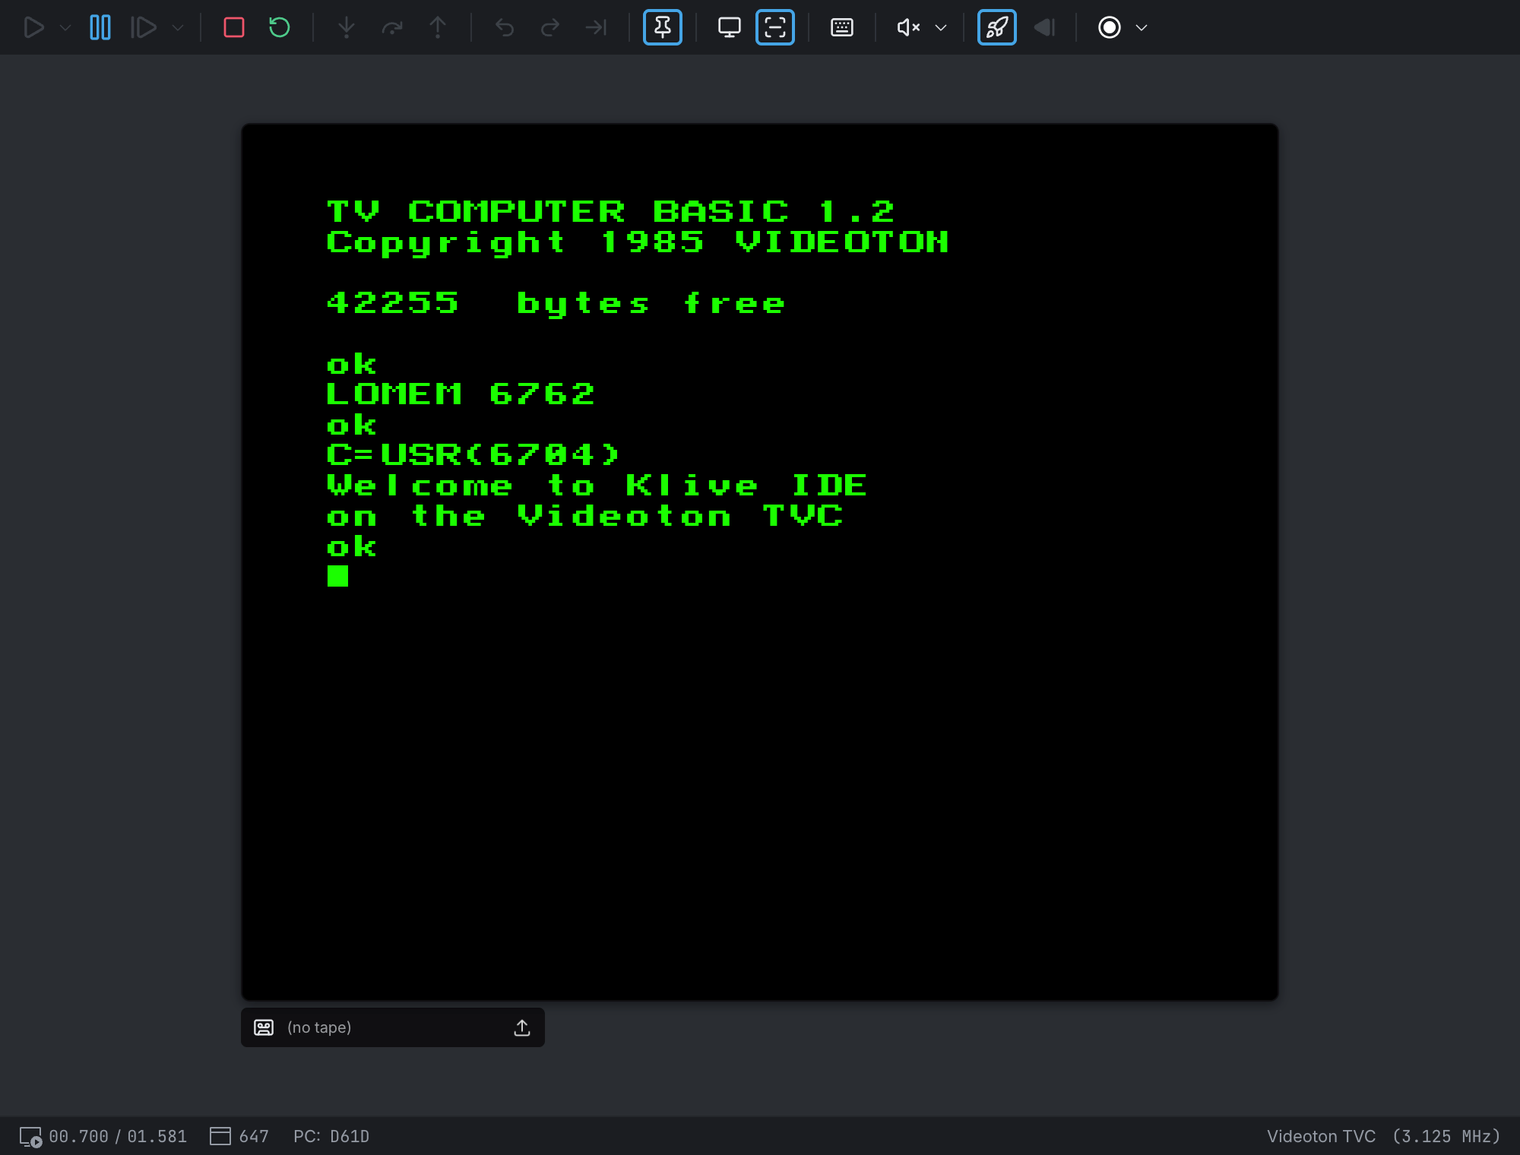
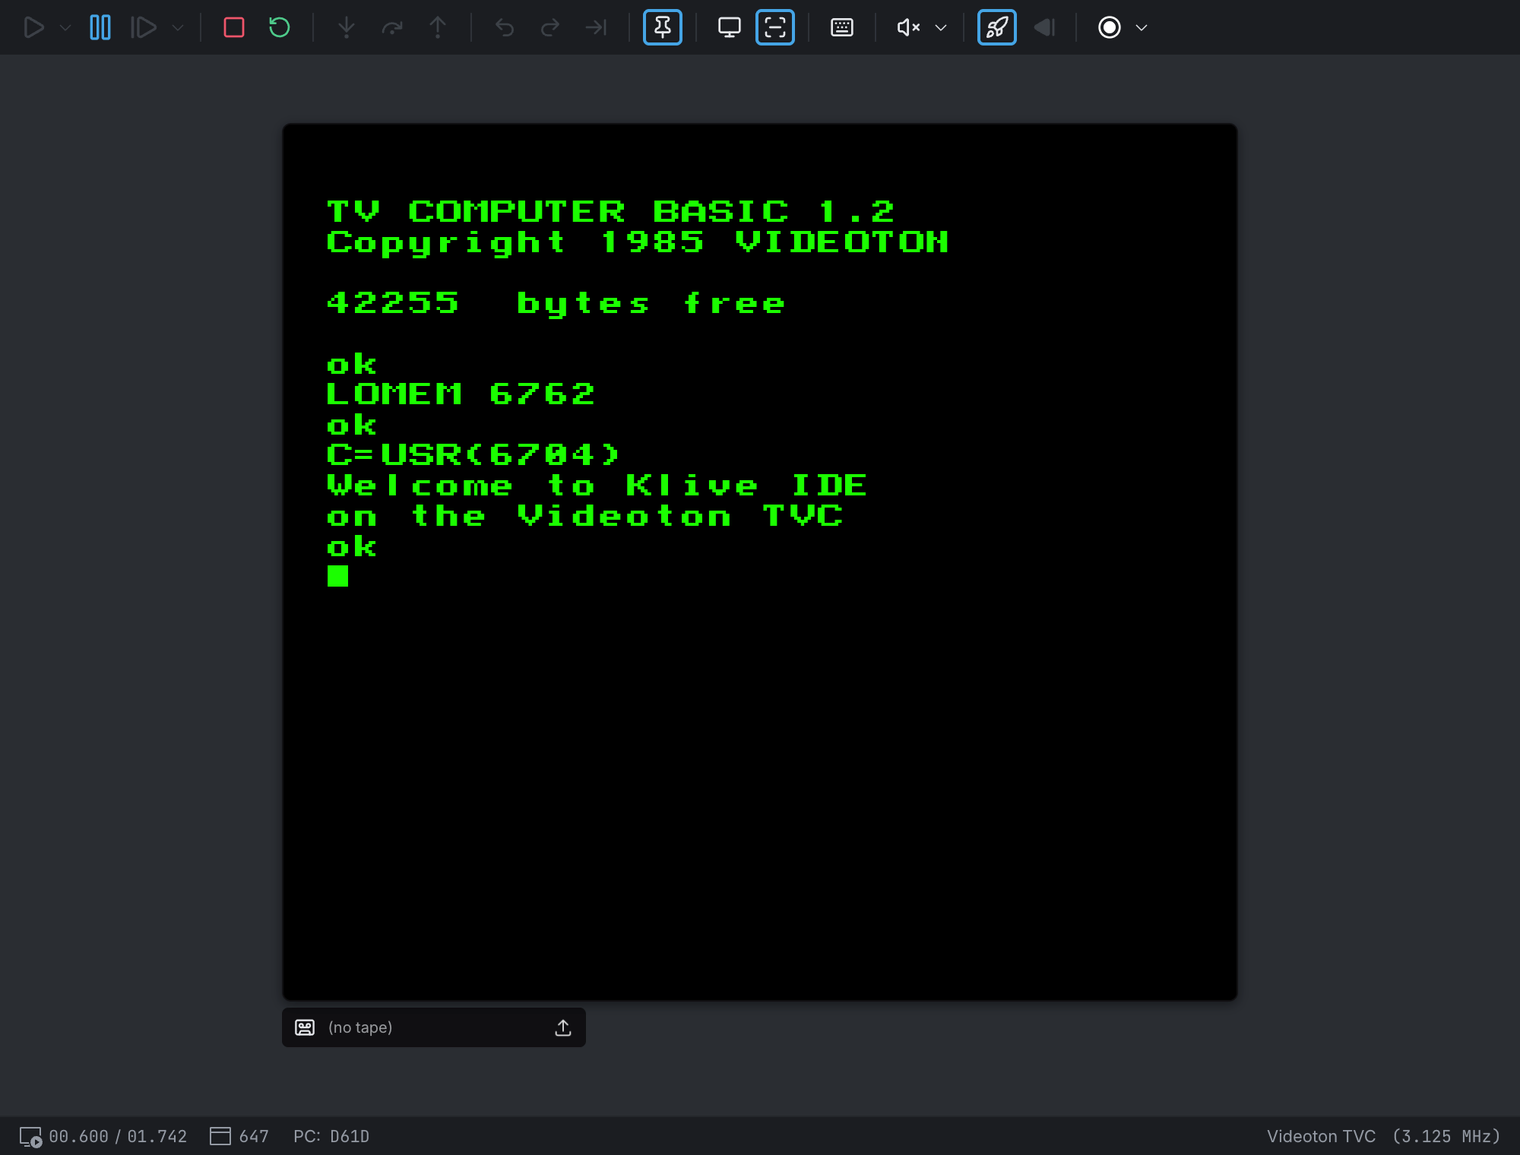
TVC: crop the TV window to 560 dots so no blanked dots show (#1546)
The 608 x 288 window started 18 characters after the line sync, 2.5
characters before the 14.4 us horizontal blank ends, so a black stripe
ran down the left edge of every picture. The window now starts at
character 21 and is 70 characters wide: the paper stays centred with
3 characters of border each side, as a TV with normal overscan shows it.

The beam overlay map, the tests' geometry and the pinned picture hashes
(checked by eye) follow; the guide's Run screenshot is regenerated.
No changeset: the TVC is not released yet, and its feature changeset
already covers it.

diff --git a/test/tvc-hw/boot.test.ts b/test/tvc-hw/boot.test.ts
@@ -2,6 +2,7 @@ import { createHash } from "node:crypto";
 import { describe, expect, it } from "vitest";
 
 import { createTvcSession, type TvcTestSession } from "../harness/tvc";
+import { writeShotIfAsked } from "./bare";
 
 /*
  * Booting BASIC 1.2 on the TVC 64K (`.plans/VIDEOTON_TVC_PLAN.md` Phase 2): the ROM tests the RAM,
@@ -10,10 +11,10 @@ import { createTvcSession, type TvcTestSession } from "../harness/tvc";
  * VIDEOTON", "42255 bytes free", "ok" and the block cursor, green on black).
  */
 
-const BOOT_PICTURE_SHA1 = "36a89c43e28b44a5ba749559900aba3246f539f7";
+const BOOT_PICTURE_SHA1 = "3cc0f0be284464ae046ce7154375f14ff6cabc24";
 
 /** The colour of a picture pixel (0xAABBGGRR) */
-const pixelAt = (s: TvcTestSession, x: number, y: number) => s.screenPixels()[y * 608 + x];
+const pixelAt = (s: TvcTestSession, x: number, y: number) => s.screenPixels()[y * 560 + x];
 
 describe("TVC 64K boot", () => {
   it("programs the CRTC with the ROM's values (TVC_VIDEO_GENERATION.md Part 3)", async () => {
@@ -27,11 +28,12 @@ describe("TVC 64K boot", () => {
   it("boots to BASIC's banner and ok, the picture checked by eye", async () => {
     const s = await createTvcSession();
     s.bootToBasic();
+    await writeShotIfAsked(s, "boot");
     const pixels = s.screenPixels();
     const hash = createHash("sha1").update(Buffer.from(pixels.buffer, pixels.byteOffset, pixels.byteLength)).digest("hex");
     // --- Black paper and border, and the banner in bright green (BASIC's default four-colour palette)
     expect(pixelAt(s, 300, 280).toString(16)).toBe("ff000000");
-    const bannerRow = Array.from(pixels.subarray(56 * 608, 57 * 608));
+    const bannerRow = Array.from(pixels.subarray(56 * 560, 57 * 560));
     expect(bannerRow.some((p) => p === 0xff00ff00)).toBe(true);
     expect(hash).toBe(BOOT_PICTURE_SHA1);
   });

diff --git a/test/tvc-hw/bare.ts b/test/tvc-hw/bare.ts
@@ -4,16 +4,16 @@ import type { TvcTestSession } from "../harness/tvc";
  * A TVC without its ROM running: page 0 shows U0 and the CPU sits in `DI; HALT` there, so nothing but
  * the test touches the video. The CRTC gets the BASIC ROM's values (TVC_VIDEO_GENERATION.md Part 3).
  *
- * With those values the TV picture (608 x 288) shows paper line L, byte C at x = 48 + 8C, y = 24 + L:
+ * With those values the TV picture (560 x 288) shows paper line L, byte C at x = 24 + 8C, y = 24 + L:
  * the line sync starts 2 characters after HS (character 77), the window 18 characters after the
  * line sync, and the paper one character after DE (Part 8).
  */
 
 export const ROM_CRTC = [99, 64, 75, 0x32, 77, 2, 60, 66, 0, 3, 3, 3, 0, 0, 0x0e, 0xff];
 
-export const PAPER_LEFT = 48;
+export const PAPER_LEFT = 24;
 export const PAPER_TOP = 24;
-export const SCREEN_WIDTH = 608;
+export const SCREEN_WIDTH = 560;
 
 /** Palette port values (I/G/R/B in bits 6/4/2/0) */
 export const PAL = { black: 0x00, white: 0x55, red: 0x04, green: 0x10, blue: 0x01, brightGreen: 0x50 };
@@ -91,7 +91,7 @@ export async function writeShotIfAsked(s: TvcTestSession, name: string): Promise
   if (!dir) return;
   const { default: sharp } = await import("sharp");
   const pixels = s.screenPixels();
-  await sharp(Buffer.from(pixels.buffer, pixels.byteOffset, pixels.byteLength), { raw: { width: 608, height: 288, channels: 4 } })
+  await sharp(Buffer.from(pixels.buffer, pixels.byteOffset, pixels.byteLength), { raw: { width: SCREEN_WIDTH, height: 288, channels: 4 } })
     .resize(1216, 1152, { kernel: "nearest", fit: "fill" })
     .png()
     .toFile(`${dir}/${name}.png`);

diff --git a/test/tvc-hw/video.test.ts b/test/tvc-hw/video.test.ts
@@ -72,7 +72,7 @@ describe("TVC video: from byte to pixels (Part 6)", () => {
 });
 
 describe("TVC video: paper, border and blanking (Part 8)", () => {
-  it("places the paper 48 dots and 24 lines into the picture, the border around it", async () => {
+  it("places the paper 24 dots and 24 lines into the picture, the border around it", async () => {
     const s = await createTvcSession();
     bareMachine(s);
     s.wasm.tvcWritePort(0x06, 0x00);
@@ -92,14 +92,13 @@ describe("TVC video: paper, border and blanking (Part 8)", () => {
     expect(pixel(s, 300, PAPER_TOP + 240)).toBe(red);
   });
 
-  it("the 14.4 us horizontal blank from HS ends 20 dots into the picture: black there, border after", async () => {
+  it("the 14.4 us horizontal blank from HS ends just before the picture: its first dot shows border", async () => {
     const s = await createTvcSession();
     bareMachine(s);
     s.wasm.tvcWritePort(0x00, 0x08);
     s.runFrames(2);
-    // --- HS rises at character 75; 180 dots later is character 97, dot 4; the window starts at 95
-    expect(pixel(s, 19, PAPER_TOP)).toBe(RGB.black);
-    expect(pixel(s, 20, PAPER_TOP)).toBe(RGB.darkRed);
+    // --- HS rises at character 75; 180 dots later is character 97, dot 4; the window starts at 98
+    for (let y = 0; y < 288; y += 47) expect(pixel(s, 0, y)).toBe(RGB.darkRed);
   });
 
   it("vertical blank: set at VS (line 264), released when MA9 first goes high - later for start 0000h", async () => {

diff --git a/src/emu/machines/tvc/TvcWasmV2Machine.ts b/src/emu/machines/tvc/TvcWasmV2Machine.ts
@@ -80,8 +80,8 @@ const LOAD_SCRIPT_TIMEOUT_FRAMES = 6000;
 
 /**
  * The raster as the beam overlay sees it (`getBeamPosition`), for the BASIC ROM's CRTC values (100
- * characters of 2 T, 314 lines). Buffer pixel (0, 0) is drawn at character 95 of line 289, 25 lines
- * and 190 T before the frame starts (`tvc-video.c`: the window starts 18 characters after the line
+ * characters of 2 T, 314 lines). Buffer pixel (0, 0) is drawn at character 98 of line 289, 25 lines
+ * and 196 T before the frame starts (`tvc-video.c`: the window starts 21 characters after the line
  * sync, 26 line syncs after the frame sync); a dot is a quarter T-state. A program that reprograms
  * the CRTC moves the picture, and this map then no longer matches it.
  */
@@ -89,11 +89,11 @@ const TVC_BEAM_TIMING: BeamTiming = {
   unit: "T",
   tactsPerLine: 200,
   linesPerFrame: 314,
-  firstVisibleTact: -25 * 200 + 95 * 2,
+  firstVisibleTact: -25 * 200 + 98 * 2,
   tactsPerBufferPixel: 0.25,
-  bufferWidth: 608,
+  bufferWidth: 560,
   bufferHeight: 288,
-  paperLeft: 48,
+  paperLeft: 24,
   paperTop: 24,
   paperWidth: 512,
   paperHeight: 240

diff --git a/test/tvc-hw/project-templates.test.ts b/test/tvc-hw/project-templates.test.ts
@@ -35,11 +35,11 @@ async function build(source = SOURCE): Promise<CodeToInject> {
 /** The picture rows that are not paper: the text the program and BASIC printed */
 function inkRows(s: TvcTestSession): number {
   const pixels = s.screenPixels();
-  const paper = pixels[60 * 608 + 300];
+  const paper = pixels[60 * 560 + 276];
   let rows = 0;
   for (let y = 24; y < 264; y++) {
-    for (let x = 48; x < 560; x++) {
-      if (pixels[y * 608 + x] !== paper) {
+    for (let x = 24; x < 536; x++) {
+      if (pixels[y * 560 + x] !== paper) {
         rows++;
         break;
       }
@@ -50,7 +50,7 @@ function inkRows(s: TvcTestSession): number {
 
 function save(s: TvcTestSession, name: string): void {
   const dir = process.env.TVC_TEMPLATE_PNG;
-  if (dir) writeFileSync(join(dir, `${name}.png`), encodePng(s.screenPixels(), 608, 288));
+  if (dir) writeFileSync(join(dir, `${name}.png`), encodePng(s.screenPixels(), 560, 288));
 }
 
 /** Two lines of the ROM's characters: the template's text, with no other line moved */

diff --git a/test/tvc-hw/programs.test.ts b/test/tvc-hw/programs.test.ts
@@ -10,7 +10,7 @@ import { bareMachine, PAPER_TOP, pictureHash, pixel, RGB, writeShotIfAsked } fro
  * echoes `print "hello"` and prints `hello` in lower case (its default), then `ok`.
  */
 
-const PRINT_HELLO_SHA1 = "e18056599b0156487df6438a21a92b7509a886f2";
+const PRINT_HELLO_SHA1 = "d4a8a689f1ac8994937d4046cbfc430ec7079995";
 
 describe("TVC programs", () => {
   it('BASIC runs PRINT "HELLO" typed on the keyboard', async () => {
@@ -54,7 +54,7 @@ describe("TVC programs", () => {
     const s = await createTvcSession();
     bareMachine(s, { halt: false });
     const beam = s.machine.getBeamPosition();
-    expect(beam.paperLeft).toBe(48);
-    expect(beam.firstVisibleTact + PAPER_TOP * beam.tactsPerLine + 48 * beam.tactsPerBufferPixel).toBe(2);
+    expect(beam.paperLeft).toBe(24);
+    expect(beam.firstVisibleTact + PAPER_TOP * beam.tactsPerLine + 24 * beam.tactsPerBufferPixel).toBe(2);
   });
 });

diff --git a/test/tvc-hw/hbf.test.ts b/test/tvc-hw/hbf.test.ts
@@ -19,11 +19,11 @@ import { createTvcSession, REPO_ROOT, type TvcTestSession } from "../harness/tvc
 const SYSTEM_DISK = new Uint8Array(readFileSync(join(REPO_ROOT, "_input/videoton-tvc/rtvc/progs/VTDOS-SYSTEM.DSK")));
 
 /** The directory listing's picture, checked by eye */
-const DIR_PICTURE = "9a368531c2c1fb04db2aadbc69bde718c66e6515";
+const DIR_PICTURE = "a2537818cc2d2a5cb46b8d91148288d4509d1a6a";
 
 function save(s: TvcTestSession, name: string): void {
   const dir = process.env.TVC_HBF_PNG;
-  if (dir) writeFileSync(join(dir, `${name}.png`), encodePng(s.screenPixels(), 608, 288));
+  if (dir) writeFileSync(join(dir, `${name}.png`), encodePng(s.screenPixels(), 560, 288));
 }
 
 function hashOf(s: TvcTestSession): string {

diff --git a/test/tvc-hw/tape.test.ts b/test/tvc-hw/tape.test.ts
@@ -15,7 +15,7 @@ const PROGRAM = [0x08, 0x0a, 0x00, 0xdd, 0x20, 0x34, 0x32, 0xff, 0x00];
 /** BASIC 1.2's program area starts at 19EFh (its TEXT pointer) */
 const BASIC_TEXT = 0x19ef;
 /** "load / Searching / Reading: T / ok / run / 42 / ok", checked by eye */
-const LOAD_RUN_SHA1 = "30bd4066acd92b29e4647b62abf6e2ec005def2a";
+const LOAD_RUN_SHA1 = "f791384ec55c0c05e04a9a3b6e4610a4d928b48f";
 
 async function savedProgram(): Promise<{ name: string; contents: Uint8Array }> {
   const s = await createTvcSession();

diff --git a/src/emu/machines/tvc/tvcMachineInfo.ts b/src/emu/machines/tvc/tvcMachineInfo.ts
@@ -16,8 +16,8 @@ export const TVC_TACTS_PER_LINE = 200;
 export const TVC_LINES_PER_FRAME = 314;
 export const TVC_TACTS_IN_FRAME = TVC_TACTS_PER_LINE * TVC_LINES_PER_FRAME;
 
-/** The TV picture (D4): 76 characters of 8 dots, 288 lines; the core's `TVC_SCREEN_WIDTH`/`HEIGHT` */
-export const TVC_SCREEN_WIDTH = 608;
+/** The TV picture (D4): 70 characters of 8 dots, 288 lines; the core's `TVC_SCREEN_WIDTH`/`HEIGHT` */
+export const TVC_SCREEN_WIDTH = 560;
 export const TVC_SCREEN_HEIGHT = 288;
 
 /**

diff --git a/test/tvc-hw/plus.test.ts b/test/tvc-hw/plus.test.ts
@@ -11,7 +11,7 @@ import { bareMachine, PAL, PAPER_LEFT, PAPER_TOP, pictureHash, pixel, RGB, write
  */
 
 /** "TV COMPUTER BASIC 2.2 / Copyright 1988 VIDEOTON / 42155 bytes free / ok" and the cursor, checked by eye */
-const PLUS_BOOT_SHA1 = "bfd42725e1a1774ed4cd36475cfb7367da6ba402";
+const PLUS_BOOT_SHA1 = "e87311944ccab863581a9d3d5224d5280e4cbe62";
 
 describe("TVC 64K+", () => {
   it("boots BASIC 2.2, the picture checked by eye", async () => {

diff --git a/src/emu/machines/tvc/wasm/TvcWasmV2Loader.ts b/src/emu/machines/tvc/wasm/TvcWasmV2Loader.ts
@@ -54,7 +54,7 @@ export type TvcWasmV2Views = {
   readonly hbfRom: Uint8Array;
   /** The HBF card's two drives, each a canonical disk image (`tvcHbfDiskGetCapacity` bytes) */
   readonly hbfDisks: readonly Uint8Array[];
-  /** The TV picture, 608 x 288 */
+  /** The TV picture, 560 x 288 */
   readonly pixelBuffer: Uint32Array;
   readonly pixelBufferBytes: Uint8ClampedArray;
   /** The keyboard matrix rows (a set bit is a pressed key) */

diff --git a/test/harness/tvc/session.ts b/test/harness/tvc/session.ts
@@ -339,7 +339,7 @@ export class TvcTestSession {
     return this;
   }
 
-  /** The published picture, as a copy (0xAABBGGRR words, 608 x 288) */
+  /** The published picture, as a copy (0xAABBGGRR words, 560 x 288) */
   screenPixels(): Uint32Array {
     return this.machine.getPixelBuffer().slice();
   }
